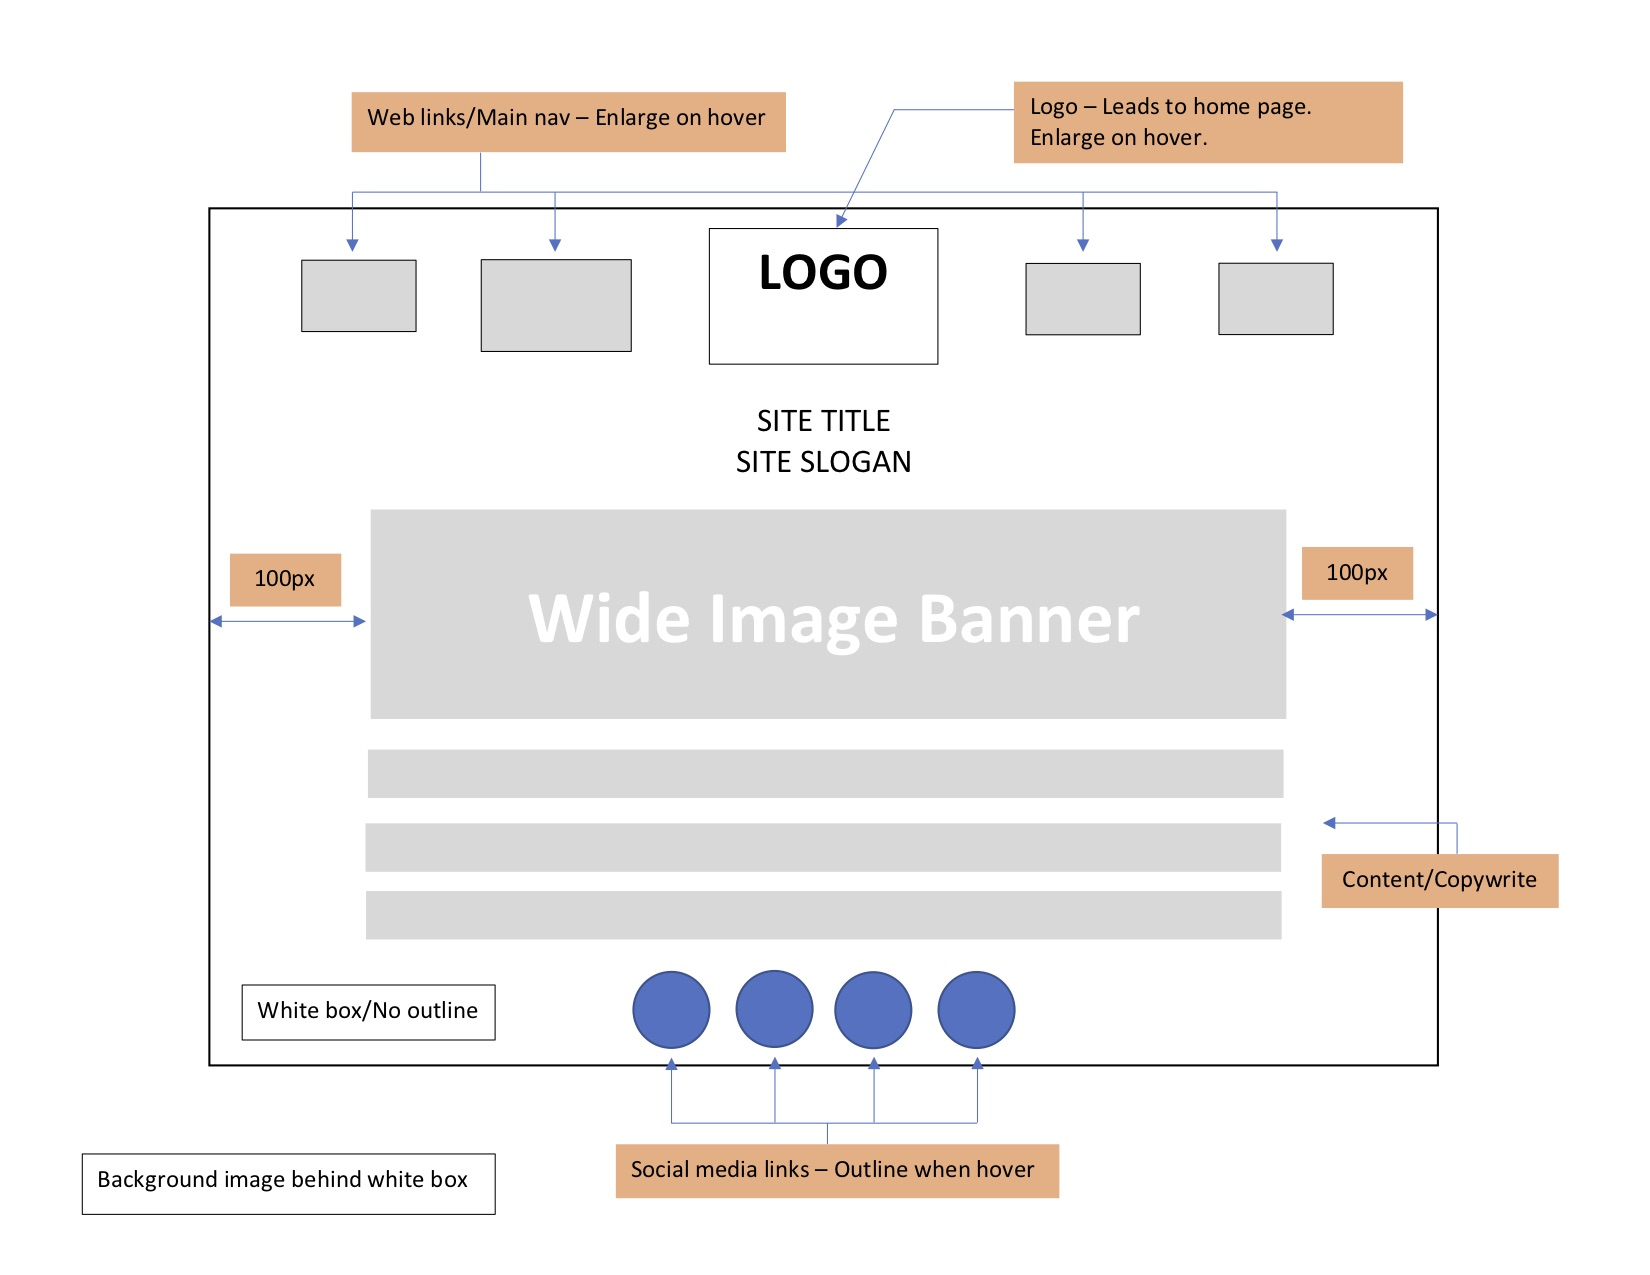
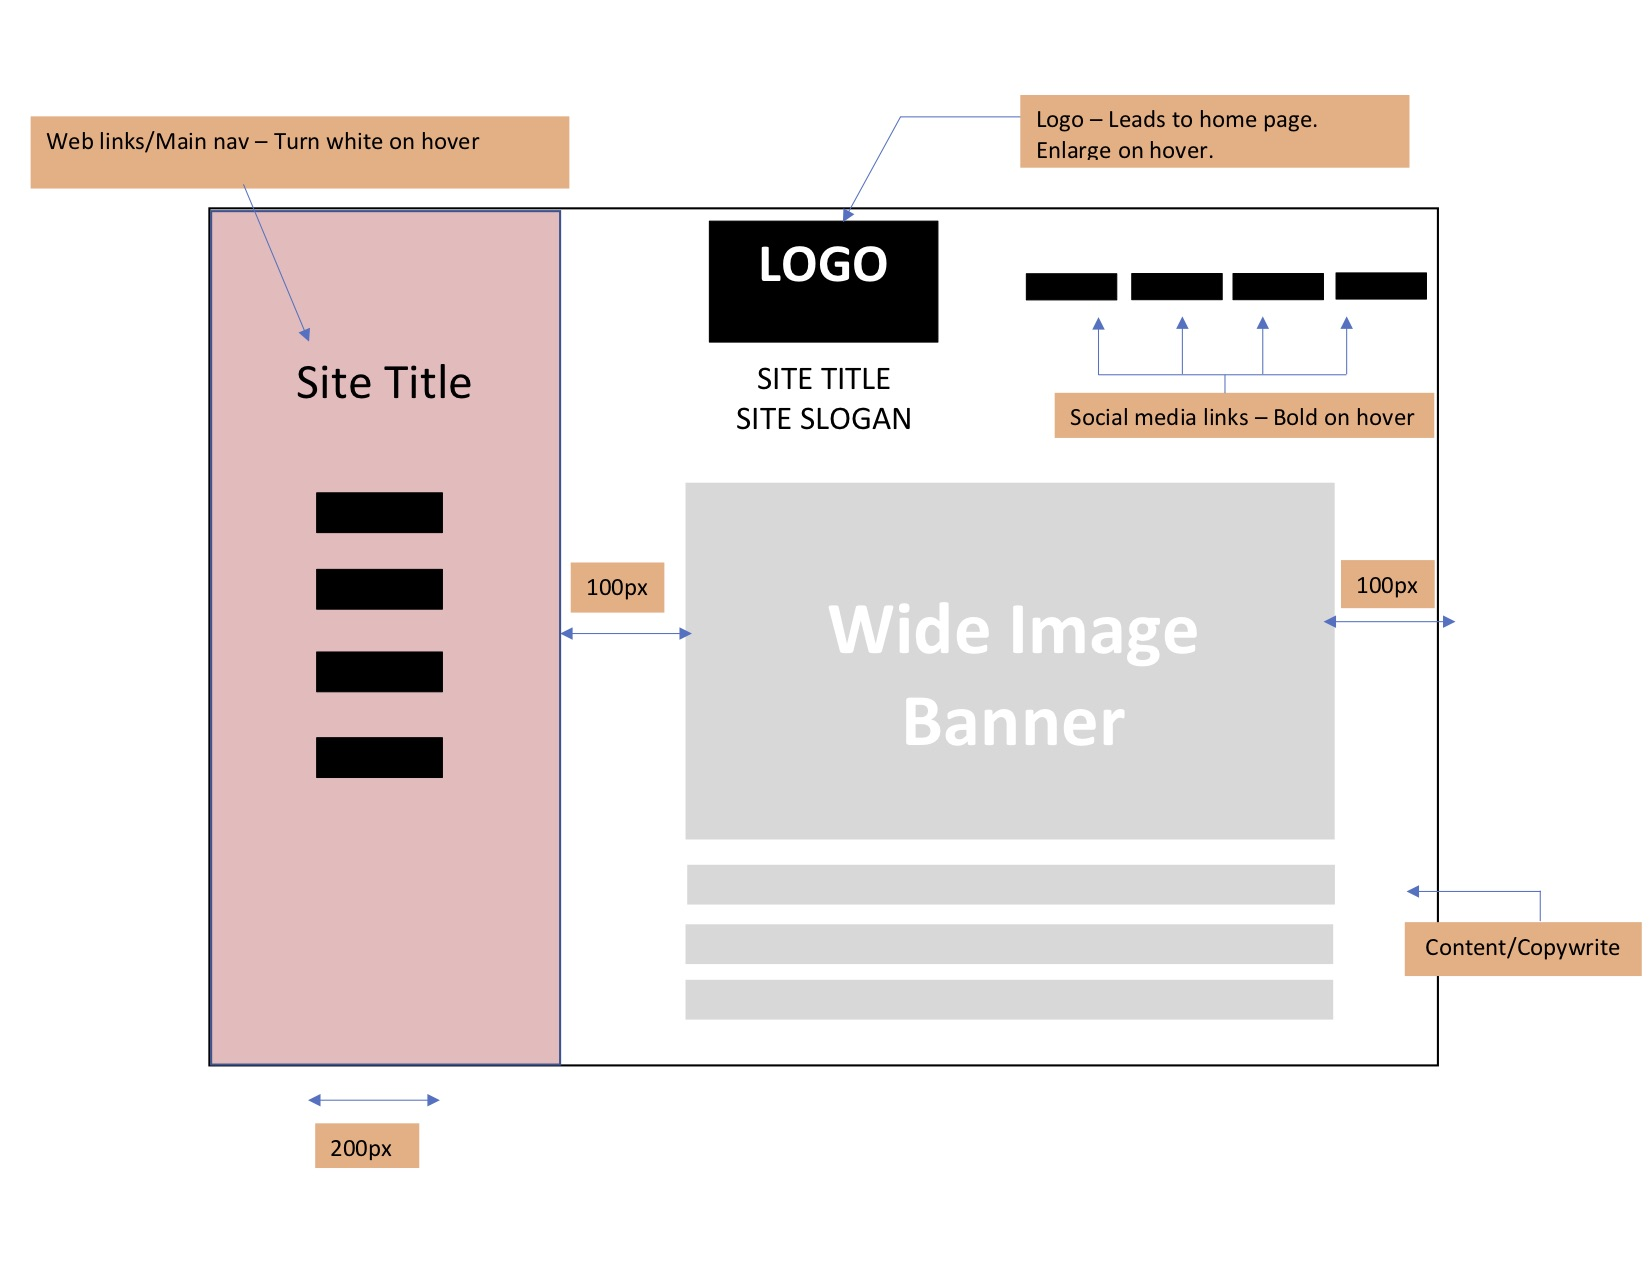
A11

diff --git a/Assignment-11/index.html b/Assignment-11/index.html
@@ -11,7 +11,6 @@
 <body>
 <div class="navigation">
   <div class="site-info">
-    <a href="#"><div class="logo">Logo</div></a>
     <a href="#">Site Title</a>
   </div>
 
@@ -22,22 +21,25 @@
     <a href="#">Page 4</a>
   </div>
 
-  <div class="sm-icons">
+</div>
+
+
+<div class="main">
+  <a href="#"><div class="logo">Logo</div></a>
+  <h1>Site Title</h1>
+  <h2>Site Slogan</h2>
+
+  <img src="./images/placeholder.png" alt="placeholder image" class="banner"/>
+
+  Aenean sollicitudin a ex eu aliquam. Donec cursus erat eu mi maximus, ut posuere orci suscipit. Curabitur quam mauris, porta et libero in, hendrerit faucibus neque. Aenean vestibulum magna nec massa efficitur dictum. In eget leo mi. Sed tincidunt elementum condimentum. Morbi eleifend neque vel orci euismod, in convallis libero imperdiet. Nam vel suscipit augue. Morbi elementum nunc quis nulla consequat, at fringilla magna ultricies. Nam pharetra neque quis cursus tempor. Proin vulputate ullamcorper enim a aliquet. Sed nulla leo, laoreet id dolor tristique, accumsan consequat nibh. Nam accumsan risus fermentum porta commodo. In hac habitasse platea dictumst.
+  Praesent venenatis, nunc in vulputate mattis, nunc risus pretium orci, commodo pretium nunc turpis vitae quam. Mauris ornare justo a metus scelerisque egestas a id odio. Mauris mattis nulla at urna pharetra, sodales vestibulum elit dignissim. Suspendisse varius ipsum leo, quis porttitor neque facilisis a. Mauris in commodo magna. Phasellus condimentum facilisis nunc, a ornare lacus efficitur rhoncus. Sed ac porttitor diam. Praesent a diam vulputate, vehicula mauris et, semper arcu.
+</div>
+
+<div class="sm-icons">
     <a href="#">Facebook</a>
     <a href="#">Instagram</a>
     <a href="#">Twitter</a>
     <a href="#">Vimeo</a>
-  </div>
-</div>
-
-<div class="main">
-  <h1>Site Title</h1>
-  <h2>Site Slogan</h2>
-
-  <img src="./images/placeholder.jpg" alt="placeholder image" class="banner"/>
-
-  Aenean sollicitudin a ex eu aliquam. Donec cursus erat eu mi maximus, ut posuere orci suscipit. Curabitur quam mauris, porta et libero in, hendrerit faucibus neque. Aenean vestibulum magna nec massa efficitur dictum. In eget leo mi. Sed tincidunt elementum condimentum. Morbi eleifend neque vel orci euismod, in convallis libero imperdiet. Nam vel suscipit augue. Morbi elementum nunc quis nulla consequat, at fringilla magna ultricies. Nam pharetra neque quis cursus tempor. Proin vulputate ullamcorper enim a aliquet. Sed nulla leo, laoreet id dolor tristique, accumsan consequat nibh. Nam accumsan risus fermentum porta commodo. In hac habitasse platea dictumst.
-  Praesent venenatis, nunc in vulputate mattis, nunc risus pretium orci, commodo pretium nunc turpis vitae quam. Mauris ornare justo a metus scelerisque egestas a id odio. Mauris mattis nulla at urna pharetra, sodales vestibulum elit dignissim. Suspendisse varius ipsum leo, quis porttitor neque facilisis a. Mauris in commodo magna. Phasellus condimentum facilisis nunc, a ornare lacus efficitur rhoncus. Sed ac porttitor diam. Praesent a diam vulputate, vehicula mauris et, semper arcu.
 </div>
 
 </body>

diff --git a/Assignment-11/css/style.css b/Assignment-11/css/style.css
@@ -1,38 +1,97 @@
-
+body{
+  font-size: 1.25em;
+  font-family: 'Source Serif Pro', serif;
+}
 .navigation{
-  width: 1500px;
-  background-color: #000;
-  height: 50px;
+  width: 200px;
+  background-color: mistyrose;
+  border-right: solid black;
+  height: 100%;
+
   position: fixed;
   top:0;
   left:0;
 }
+.navigation a {
+  text-decoration: none;
+  color: #000;
+}
 
 .main {
   background-color: #FFF;
-  margin-top: 60px;
-}
+  overflow: auto;
 
+  margin-left: 200px;
+  padding-left: 100px;
+  padding-right: 100px;
+  text-align: center;
+}
+.main a {
+  text-decoration: none;
+  color: #000;
+}
 .banner {
   width: 100%;
-  height: 400px;
+  height: auto;
+  padding-bottom: 1em;
 }
 .logo{
-  background-color: gray;
+  background-color: black;
   width: 150px;
   height: 150px;
+  margin: auto;
 
-  border: ;
-  border-radius: 100%;
+  border: 5px solid white;
+
+  line-height: 150px;
+  color: #FFF;
+  text-transform: uppercase;
 }
+.logo:hover{
+  border-color: black;
+  color: mistyrose;
+}
+
 .site-info{
-
+  margin: 2em auto;
+  text-align: center;
+  font-size: 200%;
+}
+.site-info a:hover{
+  color: white;
 }
 
-.site-links{
+.site-links {
+    margin: 0 1.5em;
+}
+.site-links a {
+    text-decoration: none;
+    color: mistyrose;
+    background-color: black;
+
+    display: block;
+    margin: 1em;
+    padding-top: 25px;
+
+    border: 2px solid white;
+    width: 100px;
+    height: 50px;
+    text-align: center;
 
 }
-
+.site-links a:hover{
+  background-color: white;
+  color: black;
+}
 .sm-icons{
-
+  position: fixed;
+  top: 1em;
+  left: 925px;
+}
+.sm-icons a {
+  text-decoration: none;
+  color: #000;
+}
+.sm-icons a:hover {
+  font-weight: bold;
 }
